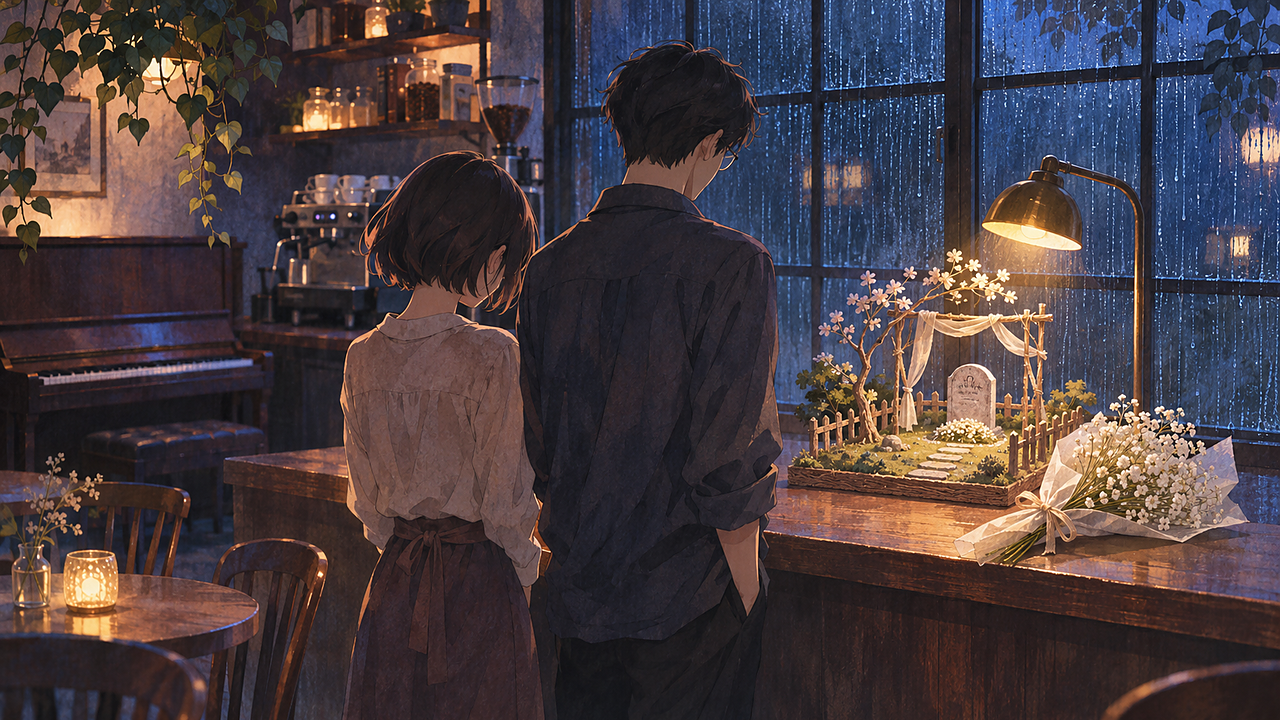
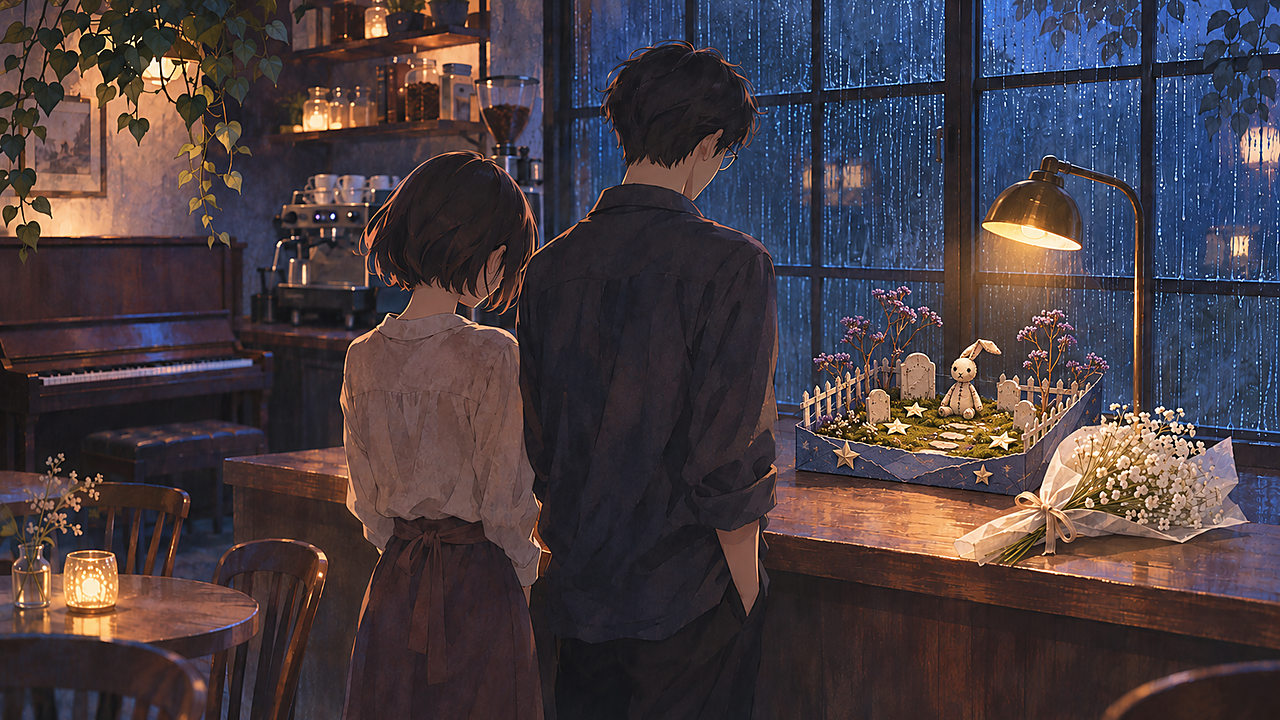
fix: 收尾修复（立绘镜头、模型统一、死代码、中文 UI）

diff --git a/ASSETS.md b/ASSETS.md
@@ -5,8 +5,8 @@
 - 分辨率 1280x720；所有全屏背景/CG 都裁成 16:9 再缩到 1280x720。
 - 字体：`game/fonts/SourceHanSansLite.ttf`，**缺 U+00B7（·）**，章节/结局标题统一用「—」；也缺 ★☆，星图星星是 PNG 贴图，不要用字符。
 - 图片名可以带空格，但不能用 Ren'Py 关键字（例如 `with`）；`cg ending with him` 会解析失败，已改成 `cg ending depart`。
-- 对话立绘：`expr_left` / `expr_right`（zoom 0.32）；小图半身：`half_left` / `half_right`（zoom 0.40）。
-- 记忆物件统一画布 560x560，星图里直接叠加。
+- 对话立绘统一用半身表情差分：`expr_left` / `expr_right`（zoom 0.32）。小满的 `neutral_bust` 与 `worried/pout/crying` 同一构图，避免全身→半身跳变。
+- 记忆物件统一画布 1024x1024，星图里直接叠加。
 
 ## 工具链
 
@@ -64,14 +64,12 @@
 |---|---|---|
 | `cg piano lesson` | `images/cg piano lesson.png` | 教琴全景（沈岚短发已对齐立绘） |
 | `cg 347` | `images/cg/cg_347.png` | 凌晨 3:47，陆遥睡在柜台（无挂钟，咖啡为美式） |
-| `cg base inside` | `images/cg/cg_base_inside.png` | 底座内部：钥匙 + 信（墓园模型，与道具一致） |
-| `cg shenlan piano` | `images/cg shenlan piano.png` | 未使用（钢琴场景统一用 `cg piano lesson`） |
-| `cg luyao piano` | `images/cg luyao piano.png` | 未使用（钢琴场景统一用 `cg piano lesson`） |
-| `cg ending together` | `images/cg/ending_together.png` | 一起开 |
-| `cg ending xiaoman` | `images/cg/ending_xiaoman.png` | 朋友一个人开 |
+| `cg base inside` | `images/cg/cg_base_inside.png` | 底座内部：钥匙 + 信（蓝色墓园纸盒，与道具一致） |
+| `cg ending together` | `images/cg/ending_together.png` | 一起开（模型已统一为蓝色墓园纸盒） |
+| `cg ending xiaoman` | `images/cg/ending_xiaoman.png` | 朋友一个人开（架上的模型已统一为蓝色墓园纸盒） |
 | `cg ending depart` | `images/cg/ending_with_him.png` | 她和他走（沈岚发型已对齐立绘） |
 | `cg ending alone` | `images/cg/ending_alone.png` | 没有回头（沈岚造型已对齐立绘） |
-| `cg ending funeral` | `images/cg/ending_funeral.png` | 完成葬礼 |
+| `cg ending funeral` | `images/cg/ending_funeral.png` | 完成葬礼（模型已统一为蓝色墓园纸盒） |
 | `cg ending together`（冷色调复用） | `images/cg/ending_together.png` | 白夜（暂不新出图） |
 | `cg ending told` | `images/cg/cg_ending_told.png` | 如果那天我说了（三个人在柜台，清晨；模型已改为墓园） |
 | `cg coffee star` | `images/cg/cg_coffee_star.png` | 美式 + 纸星近景（记录 2） |
@@ -90,7 +88,8 @@
 | `prop notebook page` | `images/props/notebook_page.png` | 小满的本子 |
 | `prop menu board` | `images/props/menu_board.png` | 菜单（美式 18 / 拿铁 22 / 手冲 28） |
 | `prop transfer sign` | `images/props/transfer_sign.png` | 玻璃门上的「转让」牌 |
-| `prop coffee star` | `images/props/coffee_star.png` | 旧合成图，已被 `cg coffee star` 取代 |
+
+> `prop coffee star` 与 `cards.rpy` 的头像卡系统已移除；咖啡近景统一用 `cg coffee star`。
 
 > 这些图由 `tools/make_documents.py` 生成，中文由 `SourceHanSansLite.ttf` 渲染，避免 AI 出字糊字。数字以上海陆家嘴 2025 年租金/薪资为参考：58 平方米、原租 10,000 → 续租 18,000，offer 32,000×15 薪，N+1 约 96,000。
 
@@ -98,9 +97,10 @@
 
 | 角色 | 表情 | 备注 |
 |---|---|---|
-| 沈岚 | neutral / tired / quiet / hurt / angry | 半身，透明底 |
-| 陆遥 | neutral / awkward / guilty / sad | 半身，透明底，眼镜 |
-| 小满 | neutral / worried / pout / crying / kneel | 半身，透明底 |
+| 沈岚 | quiet / hurt / angry | 半身，透明底；对话统一用半身 |
+| 陆遥 | awkward / guilty / sad / warm / quiet | 半身，透明底，眼镜 |
+| 小满 | neutral_bust / worried / pout / crying | 半身，透明底；neutral_bust 与表情同一构图 |
+| 房东 | neutral_half | 半身，夹着文件袋 |
 
 源图在 `game/images/sprites/raw/`，处理后的成品在 `game/images/sprites/`。
 
@@ -120,7 +120,7 @@
 
 ## 记忆物件（星图）
 
-信封+钥匙、兔子、纸星星、模型、手机、琴盖、咖啡、钥匙、车票、花束、螺丝刀、猫、书、伞、本子、租约、笔记本电脑，共 17 个，统一 560x560，文件在 `game/images/mem/`。
+信封+钥匙、兔子、纸星星、模型、手机、琴盖、咖啡、钥匙、车票、花束、螺丝刀、猫、书、伞、本子、租约、笔记本电脑，共 17 个，统一 1024x1024，文件在 `game/images/mem/`。
 
 ## 待补资源（按 PLAN Milestone 1）
 

diff --git a/TODO-FIX.md b/TODO-FIX.md
@@ -54,6 +54,14 @@
 - 展览画面：`cg exhibition`（模型、纸星罐、星图册）接入「一起开」「朋友一个人开」。
 - 假选择补后果：`f_piano` 在争吵开头回收；`f_told` 影响「朋友一个人开」；`m10_signed` / `l_lease_told` 影响「一起开 / 白夜」。
 
+## 已完成（第三批：收尾修复）
+
+- **立绘镜头跳变**：新增 `xiaoman neutral_bust`（与小满其他表情同一半身构图），11 处 `neutral_half at half_right` 全部换成 `neutral_bust at expr_right`；不再出现全身→大头半身的跳变。
+- **模型统一**：`ending_funeral`、`ending_xiaoman`、`ending_together` 里的模型改为同一只蓝色墓园纸盒（白栅栏、纸星、歪耳布兔）；`mem_model` 也换成透明底蓝色墓园，星图里保持 1024 画布。
+- **死代码清理**：删除未使用的 `cards.rpy`（头像卡系统）、`puzzle_end_sample`、`warm_soft`、`doc_center`、`half_left` / `full_*` 变换、`bg konbini*`、未使用的全身/表情/钢琴 CG 定义；`screens.rpy` 里与自定义主菜单重复的默认 `main_menu` 删除。
+- **UI 中文化**：帮助页（键盘/鼠标/手柄）、历史空状态、存档时间格式、空存档、自动/快存页签、同步按钮、触摸快捷菜单全部改为中文。
+- lint 通过；图片 98 → 87，屏幕 37 → 36。
+
 ## 待办
 
 - `doc_center` 是否仍压脸需要实机看；必要时显示文件时临时隐藏立绘。

diff --git a/PLAN.md b/PLAN.md
@@ -189,7 +189,7 @@
 
 ### Milestone 6.5: 细节与逻辑修补
 
-> 进度：🟡 进行中（2026-11-25）。玩家评审后的 P0/P1 修复见 `TODO-FIX.md`：时间线、死亡明示、陆遥 POV、转让牌/钱/offer/纸星、星图解锁、UI、无牌背景、咖啡/3:47/模型/展览 CG、假选择补后果已修；剩余 doc 遮挡、`cg piano lesson` 发型、20+ 标记收敛、节奏与 M7 润色。
+> 进度：✅ 已完成（2026-11-25）。玩家评审后的 P0/P1 修复见 `TODO-FIX.md`；时间线、死亡明示、陆遥 POV、转让牌/钱/offer/纸星、星图解锁、UI、无牌背景、咖啡/3:47/模型/展览 CG、假选择、立绘镜头跳变、模型统一、死代码与英文 UI 均已处理。20+ 标记收敛与节奏问题并入 M7。
 
 #### 目标
 - 修掉主线里会让人出戏的逻辑硬伤，补上关键实物特写。
